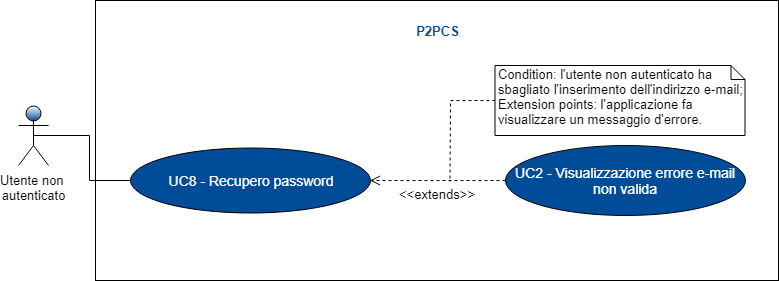
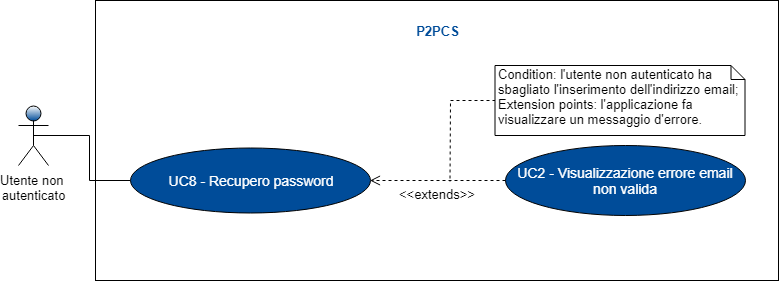
verificato adr con cambio immagini e scritta e-mail fixata su tutto

Changed region(s): [[0.647, 0.5979, 0.9551, 0.6548], [0.8935, 0.2847, 0.9551, 0.3416]]

diff --git a/RR/Esterni/Analisi_dei_requisiti/res/sections/UC/UC5-9-LoginLogout.tex b/RR/Esterni/Analisi_dei_requisiti/res/sections/UC/UC5-9-LoginLogout.tex
@@ -14,7 +14,7 @@
 	\item \textbf{Estensioni}:
 		\begin{itemize}
 			\item Visualizzazione errore campi vuoti [UC6];
-			\item Visualizzazione errore combinazione e-mail e password errata [UC7].
+			\item Visualizzazione errore combinazione email e password errata [UC7].
 		\end{itemize}	
 \end{itemize}
 \begin{figure}[h]
@@ -40,13 +40,13 @@
 	\centering
 	\caption{UC5.1 - Compilazione campi per il login}
 \end{figure}
-\subsubsection{UC5.1.1 - Inserimento e-mail}
+\subsubsection{UC5.1.1 - Inserimento email}
 \begin{itemize}
 	\item \textbf{Attori Primari}: utente non autenticato;
-	\item \textbf{Descrizione}: al fine di portare a termine il processo di autenticazione l'utente deve inserire l'indirizzo e-mail associato all'account, campo ritenuto obbligatorio;
-	\item \textbf{Scenario principale}: l'utente compila il campo relativo all'indirizzo e-mail;	
-	\item \textbf{Precondizione}: l'applicazione ha reso disponibile il campo per l'inserimento dell'indirizzo e-mail;
-	\item \textbf{Postcondizione}: l'utente ha compilato il campo con l'indirizzo e-mail associato al proprio account.
+	\item \textbf{Descrizione}: al fine di portare a termine il processo di autenticazione l'utente deve inserire l'indirizzo email associato all'account, campo ritenuto obbligatorio;
+	\item \textbf{Scenario principale}: l'utente compila il campo relativo all'indirizzo email;	
+	\item \textbf{Precondizione}: l'applicazione ha reso disponibile il campo per l'inserimento dell'indirizzo email;
+	\item \textbf{Postcondizione}: l'utente ha compilato il campo con l'indirizzo email associato al proprio account.
 \end{itemize}
 
 \subsubsection{UC5.1.2 - Inserimento password}
@@ -61,7 +61,7 @@
 \subsubsection{UC5.2 - Invio dati}
 \begin{itemize}
 	\item \textbf{Attori Primari}: utente non autenticato;
-	\item \textbf{Descrizione}: l'utente preme il pulsante per la conferma e l'invio dei dati; se e-mail e password risulteranno corrette l'utente verrà autenticato;
+	\item \textbf{Descrizione}: l'utente preme il pulsante per la conferma e l'invio dei dati; se email e password risulteranno corrette l'utente verrà autenticato;
 	\item \textbf{Scenario principale}: l'utente preme il pulsante di verifica ed invio dei dati;	
 	\item \textbf{Precondizione}: i campi dati necessari per l'autenticazione sono compilabili. È presente il pulsante per la conferma dei dati;
 	\item \textbf{Postcondizione}: l'utente viene autenticato e rimandato all'activity\glosp per la gestione dei veicoli.
@@ -70,16 +70,16 @@
 \subsubsection{UC6 - Visualizzazione errore campi vuoti}
 \begin{itemize}
 	\item \textbf{Attori Primari}: utente non autenticato;
-	\item \textbf{Descrizione}: l'utente visualizza un messaggio d'errore in quanto non sono stati riempiti i campi di inserimento e-mail e password;
-	\item \textbf{Scenario principale}: l'utente non ancora autenticato tenta di accedere non inserendo un indirizzo e-mail e password;	
+	\item \textbf{Descrizione}: l'utente visualizza un messaggio d'errore in quanto non sono stati riempiti i campi di inserimento email e password;
+	\item \textbf{Scenario principale}: l'utente non ancora autenticato tenta di accedere non inserendo un indirizzo email e password;	
 	\item \textbf{Precondizione}: l'utente non autenticato non inserisce nessun dato nei campi di inserimento;
 	\item \textbf{Postcondizione}: l'applicazione fa visualizzare un messaggio d'errore.
 \end{itemize}
-\subsubsection{UC7 - Visualizzazione errore combinazione e-mail e password errata}
+\subsubsection{UC7 - Visualizzazione errore combinazione email e password errata}
 \begin{itemize}
 	\item \textbf{Attori Primari}: utente non autenticato;
-	\item \textbf{Descrizione}: l'utente visualizza un messaggio d'errore in quanto i campi di inserimento e-mail e password sono stati riempiti in modo errato;
-	\item \textbf{Scenario principale}: l'utente non ancora autenticato tenta di accedere inserendo un indirizzo e-mail e password che insieme risultano non validi;	
+	\item \textbf{Descrizione}: l'utente visualizza un messaggio d'errore in quanto i campi di inserimento email e password sono stati riempiti in modo errato;
+	\item \textbf{Scenario principale}: l'utente non ancora autenticato tenta di accedere inserendo un indirizzo email e password che insieme risultano non validi;	
 	\item \textbf{Precondizione}: l'utente non autenticato inserisce i dati che combinati risultano non validi;
 	\item \textbf{Postcondizione}: l'applicazione fa visualizzare un messaggio d'errore.
 \end{itemize}
@@ -87,13 +87,13 @@
 \subsubsection{UC8 - Recupero password}
 \begin{itemize}
 	\item \textbf{Attori Primari}: utente non autenticato;
-	\item \textbf{Descrizione}: l'utente non autenticato non si ricorda la propria password per accedere all'account e ne richiede il recupero che avviene inserendo un'indirizzo e-mail dove verrà inviata una nuova password;
-	\item \textbf{Scenario principale}: l'utente non ancora autenticato inserisce un'indirizzo e-mail dove potrà ricevere la nuova password da utilizzare per accedere al proprio account; 
-	\item \textbf{Precondizione}: l'utente non autenticato non ricorda la password di accesso e indica un'indirizzo e-mail di recupero;
-	\item \textbf{Postcondizione}: l'utente riceve la nuova password tramite posta all'indirizzo e-mail inviato.
+	\item \textbf{Descrizione}: l'utente non autenticato non si ricorda la propria password per accedere all'account e ne richiede il recupero che avviene inserendo un'indirizzo email dove verrà inviata una nuova password;
+	\item \textbf{Scenario principale}: l'utente non ancora autenticato inserisce un'indirizzo email dove potrà ricevere la nuova password da utilizzare per accedere al proprio account; 
+	\item \textbf{Precondizione}: l'utente non autenticato non ricorda la password di accesso e indica un'indirizzo email di recupero;
+	\item \textbf{Postcondizione}: l'utente riceve la nuova password tramite posta all'indirizzo email inviato.
 	\item \textbf{Estensione}:
 		\begin{itemize}
-			\item Visualizzazione errore e-mail non valida [UC2].
+			\item Visualizzazione errore email non valida [UC2].
 		\end{itemize}
 \end{itemize}
 \begin{figure}[h]

diff --git a/RR/Esterni/Analisi_dei_requisiti/res/sections/UC/UC1-4-GuidaRegistrazione.tex b/RR/Esterni/Analisi_dei_requisiti/res/sections/UC/UC1-4-GuidaRegistrazione.tex
@@ -16,14 +16,14 @@
 		\begin{itemize}
 			\item Inserimento nome [UC1.1.1];
 			\item Inserimento cognome [UC1.1.2];
-			\item Inserimento indirizzo e-mail [UC1.1.3];
+			\item Inserimento indirizzo email [UC1.1.3];
 			\item Inserimento password [UC1.1.4].
 		\end{itemize}
 	\item \textbf{Precondizione}: l'utente ha inserito correttamente tutti i dati necessari nei campi;
 	\item \textbf{Postcondizione}: l'utente viene registrato nell'applicazione;
 	\item \textbf{Estensioni}:
 		\begin{itemize}
-			\item Visualizzazione errore e-mail non valida [UC2];
+			\item Visualizzazione errore email non valida [UC2];
 			\item Visualizzazione errore password non conforme [UC3]. 
 		\end{itemize} 
 \end{itemize}
@@ -63,13 +63,13 @@
 	\item \textbf{Precondizione}: l'applicazione ha reso disponibile il campo per l'inserimento del cognome;
 	\item \textbf{Postcondizione}: l'utente ha compilato il campo con il proprio cognome.	
 \end{itemize}
-\subsubsection{UC1.1.3 - Inserimento indirizzo e-mail}
+\subsubsection{UC1.1.3 - Inserimento indirizzo email}
 \begin{itemize}
 	\item \textbf{Attori Primari}: utente non autenticato;
-	\item \textbf{Descrizione}: al fine di portare a termine il processo di registrazione l'utente deve inserire il proprio indirizzo e-mail, campo ritenuto obbligatorio;
-	\item \textbf{Scenario principale}: l'utente compila il campo relativo all'indirizzo e-mail;	
-	\item \textbf{Precondizione}: l'applicazione ha reso disponibile il campo per l'inserimento dell'indirizzo e-mail;
-	\item \textbf{Postcondizione}: l'utente ha compilato il campo con il proprio indirizzo e-mail.
+	\item \textbf{Descrizione}: al fine di portare a termine il processo di registrazione l'utente deve inserire il proprio indirizzo email, campo ritenuto obbligatorio;
+	\item \textbf{Scenario principale}: l'utente compila il campo relativo all'indirizzo email;	
+	\item \textbf{Precondizione}: l'applicazione ha reso disponibile il campo per l'inserimento dell'indirizzo email;
+	\item \textbf{Postcondizione}: l'utente ha compilato il campo con il proprio indirizzo email.
 \end{itemize}
 \subsubsection{UC1.1.4 - Inserimento password}
 \begin{itemize}
@@ -88,12 +88,12 @@
 	\item \textbf{Postcondizione}: l'utente viene rimandato a una nuova activity che conferma il successo dell'operazione e avvisa l'utente di controllare la propria e-mail per confermare il processo di registrazione.
 \end{itemize}
 
-\subsubsection{UC2 - Visualizzazione errore e-mail non valida}
+\subsubsection{UC2 - Visualizzazione errore email non valida}
 \begin{itemize}
 	\item \textbf{Attori Primari}: utente non autenticato;
-	\item \textbf{Descrizione}: l'utente visualizza un messaggio d'errore in quanto l'e-mail digitata è scorretta;
-	\item \textbf{Scenario principale}: l'utente non ancora autenticato tenta di registrarsi inserendo un indirizzo e-mail non valido;
-	\item \textbf{Precondizione}: l'utente non autenticato ha sbagliato l'inserimento dell'indirizzo e-mail; 
+	\item \textbf{Descrizione}: l'utente visualizza un messaggio d'errore in quanto l'email digitata è scorretta;
+	\item \textbf{Scenario principale}: l'utente non ancora autenticato tenta di registrarsi inserendo un indirizzo email non valido;
+	\item \textbf{Precondizione}: l'utente non autenticato ha sbagliato l'inserimento dell'indirizzo email; 
 	\item \textbf{Postcondizione}: l'applicazione fa visualizzare un messaggio d'errore.
 \end{itemize}
 

diff --git a/RR/Esterni/Analisi_dei_requisiti/res/sections/descrizione_generale.tex b/RR/Esterni/Analisi_dei_requisiti/res/sections/descrizione_generale.tex
@@ -25,12 +25,14 @@ I core-drive\glosp e le game mechanics che il gruppo \textit{Zeus Code} intende 
 	\item \textbf{empowerment}: permettere all'utente di sbloccare potenziamenti.
 \end{itemize}
 \subsection{Caratteristiche degli utenti}
-Si evidenziano sin da subito quattro categorie di utenti:
+Si evidenziano sin da subito due categorie di utenti:
 \begin{itemize}
 	\item utente non autenticato;
-	\item utente con registrazione incompleta (nome, email e password);
-	\item usufruente - utente con registrazione completa che necessita un'auto;
-	\item proprietario - utente con registrazione completa che condivide la propria auto.
+	\item utente autenticato con registrazione incompleta (nome, email e password) che potrà essere:
+		\begin{itemize}
+			\item usufruente: utente autenticato con registrazione completa che necessita un'auto;
+			\item proprietario: utente autenticato con registrazione completa che condivide la propria auto.
+		\end{itemize}
 \end{itemize}
 
 \subsection{Macro architetture del progetto}
@@ -39,9 +41,9 @@ Il back end\glosp utilizzerà la piattaforma Movens\glosp sviluppata da Henshin 
 
 \subsubsection{Front end}
 Il progetto \textit{P2PCS} non necessità sviluppo di codice front end\glo.
-Verrà utilizzato un pannello di amministrazione già esistente, fornito dal proponente \textit{GaiaGo}, da cui verranno estratti dati utili per lo sviluppo dell'applicazione Android.
+Verrà utilizzato un pannello di amministrazione già esistente, fornito dal proponente \textit{GaiaGo}, da cui verranno estratti dati utili per lo sviluppo dell'applicazione Android\glo.
 
 \subsection{Vincoli generali}
-Gli utenti non autenticati o con registrazione incompleta possono solo visualizzare il contenuto dell'applicazione, mentre gli usufruenti e proprietari hanno accesso a tutti i servizi offerti dall'appplicazione. Inoltre, tutti gli utenti hanno bisogno di una connessione internet per l'utilizzo dell'app.
+Gli utenti non autenticati o con registrazione incompleta possono solo visualizzare il contenuto dell'applicazione, mentre gli utenti autenticati, come usufruenti e proprietari, hanno accesso a tutti i servizi offerti dall'applicazione. Inoltre, tutti gli utenti hanno bisogno di una connessione internet per l'utilizzo dell'applicazione.
 
  

diff --git a/RR/Esterni/Analisi_dei_requisiti/res/sections/Requisiti/requisiti_funzionali.tex b/RR/Esterni/Analisi_dei_requisiti/res/sections/Requisiti/requisiti_funzionali.tex
@@ -1,3 +1,4 @@
+\newpage
 \subsection{Requisiti funzionali}
 
 \rowcolors{2}{pari}{dispari}
@@ -19,7 +20,7 @@
 	& \textbf{\color{white}Fonti} 
 	\endhead	
 	
-	RFD1	&	Desiderabile	&	L'utente visualizza un'activity introduttiva	&	Interno\\  UC4	\tabularnewline
+	RFD1	&	Desiderabile	&	L'utente visualizza un'activity\glosp introduttiva	&	Interno\\  UC4	\tabularnewline
 	RFO2	&	Obbligatorio	&	Un utente non registrato può effettuare la registrazione	&	Capitolato \\ UC1	\tabularnewline
 	RFO2.1	&	Obbligatorio	&	La registrazione richiede l'email &	Interno \\ UC1.1.1	\tabularnewline
 	RFO2.2	&	Obbligatorio	&	La registrazione richiede il nome. &	Interno \\ UC1.1.2	\tabularnewline
@@ -52,7 +53,7 @@
 	RFD9	&	Desiderabile	&	L'utente può visualizzare uno storico delle attività effettuate		&	Interno \\ UC13	\tabularnewline
 	RFO10	&	Obbligatorio	&	L'utente può visualizzare il proprio profilo utente	&	Capitolato \\ UC14	\tabularnewline
 	RFO10.1	&	Obbligatorio	&	L'utente può modificare i dati del profilo	&	Capitolato \\ UC14.1	\tabularnewline
-	RFO10.2	&	Obbligatorio	&	L'utente può modificare il Nome	&	Interno \\ UC14.1.1	\tabularnewline
+	RFO10.2	&	Obbligatorio	&	L'utente può modificare il nome	&	Interno \\ UC14.1.1	\tabularnewline
 	RFO10.3	&	Obbligatorio	&	L'utente può modificare il cognome	&	Interno \\ UC14.1.2	\tabularnewline
 	RFO10.4	&	Obbligatorio	&	L'utente può modificare la password	&	Interno \\ UC14.1.3	\tabularnewline
 	RFO10.5	&	Obbligatorio	&	L'utente può modificare l'email	&	Interno \\ UC14.1.4	\tabularnewline

diff --git a/RR/Esterni/Analisi_dei_requisiti/res/sections/requisiti.tex b/RR/Esterni/Analisi_dei_requisiti/res/sections/requisiti.tex
@@ -25,7 +25,7 @@ Ogni requisito è composto dalla seguente struttura:
 	\item \textbf{descrizione}: descrizione breve ma completa del requisito, meno ambigua possibile;
 	\item \textbf{fonti}: ogni requisito può derivare da una o più tra le seguenti opzioni:
 	\begin{itemize}
-		\item \textit{capitolato\glo}: si tratta di un requisito individuato dalla lettura del capitolato\glo;
+		\item \textit{capitolato\glo}: si tratta di un requisito individuato dalla lettura del capitolato;
 		\item \textit{interno}: si tratta di un requisito che gli analisti hanno ritenuto opportuno aggiungere;
 		\item \textit{caso d'uso}: il requisito è estrapolato da uno o più casi d'uso. In questo caso è riportato il codice univoco del caso d'uso;
 		\item \textit{verbale}: si tratta di un requisito individuato in seguito ad una richiesta di chiarimento con il proponente. Tali informazioni sono riportate nei verbali in cui ogni requisito individuato è segnato da un codice presente nella tabella dei tracciamenti.

diff --git a/RR/Esterni/Analisi_dei_requisiti/res/sections/Requisiti/requisiti_di_vincolo.tex b/RR/Esterni/Analisi_dei_requisiti/res/sections/Requisiti/requisiti_di_vincolo.tex
@@ -21,8 +21,8 @@
 		
 		
 RVO1	&	Obbligatorio	&	L'applicazione deve essere sviluppata per Android\glosp 9, Versione API\glo: 28	&	Capitolato	\tabularnewline
-RVD2	&	Desiderabile	&	L'applicazione deve essere scritta in Kotlin	&	Interno	\tabularnewline
-RVO3	&	Obbligatorio	&	Il prodotto deve essere pubblicato e versionato in una repository di Github\glo.	&	Capitolato
+RVD2	&	Desiderabile	&	L'applicazione deve essere scritta in Kotlin\glo	&	Interno	\tabularnewline
+RVO3	&	Obbligatorio	&	Il prodotto deve essere pubblicato e versionato in una repository\glosp di Github\glo.	&	Capitolato
 \tabularnewline
 RVO4	&	Obbligatorio	&	Setup di una continuos integration\glosp per verificare che ogni release\glosp soddisfi i requisiti nuovi senza regressioni. 	&	Capitolato	\tabularnewline
 RVD5	&	Desiderabile	&	Utilizzo della piattaforma Movens\glosp per il servizio di back-end\glo.	&	Capitolato	\tabularnewline

diff --git a/RR/Esterni/Analisi_dei_requisiti/res/sections/UC/UC14-GestioneProfilo.tex b/RR/Esterni/Analisi_dei_requisiti/res/sections/UC/UC14-GestioneProfilo.tex
@@ -16,6 +16,7 @@
 	\item \textbf{Postcondizione}: l'utente ha effettuato l'operazione di modifica dati oppure l'eliminazione dell'account e il processo è stato confermato dal sistema.
 	\item \textbf{Estensioni}:
 	\begin{itemize}
+		\item Visualizzazione errore email non valida [UC2];
 		\item Visualizzazione errore password non conforme [UC3];
 		\item Visualizzazione errore password non corrispondente [UC15].
 	\end{itemize}
@@ -34,7 +35,7 @@
 		\item Nome [UC14.1.1];
 		\item Cognome [UC14.1.2];
 		\item Numero telefonico [UC14.1.3];
-		\item E-mail [UC14.1.4];
+		\item Email [UC14.1.4];
 		\item Data di nascita [UC14.1.5];
 		\item Residenza [UC14.1.6];
 		\item Password [UC14.1.7].
